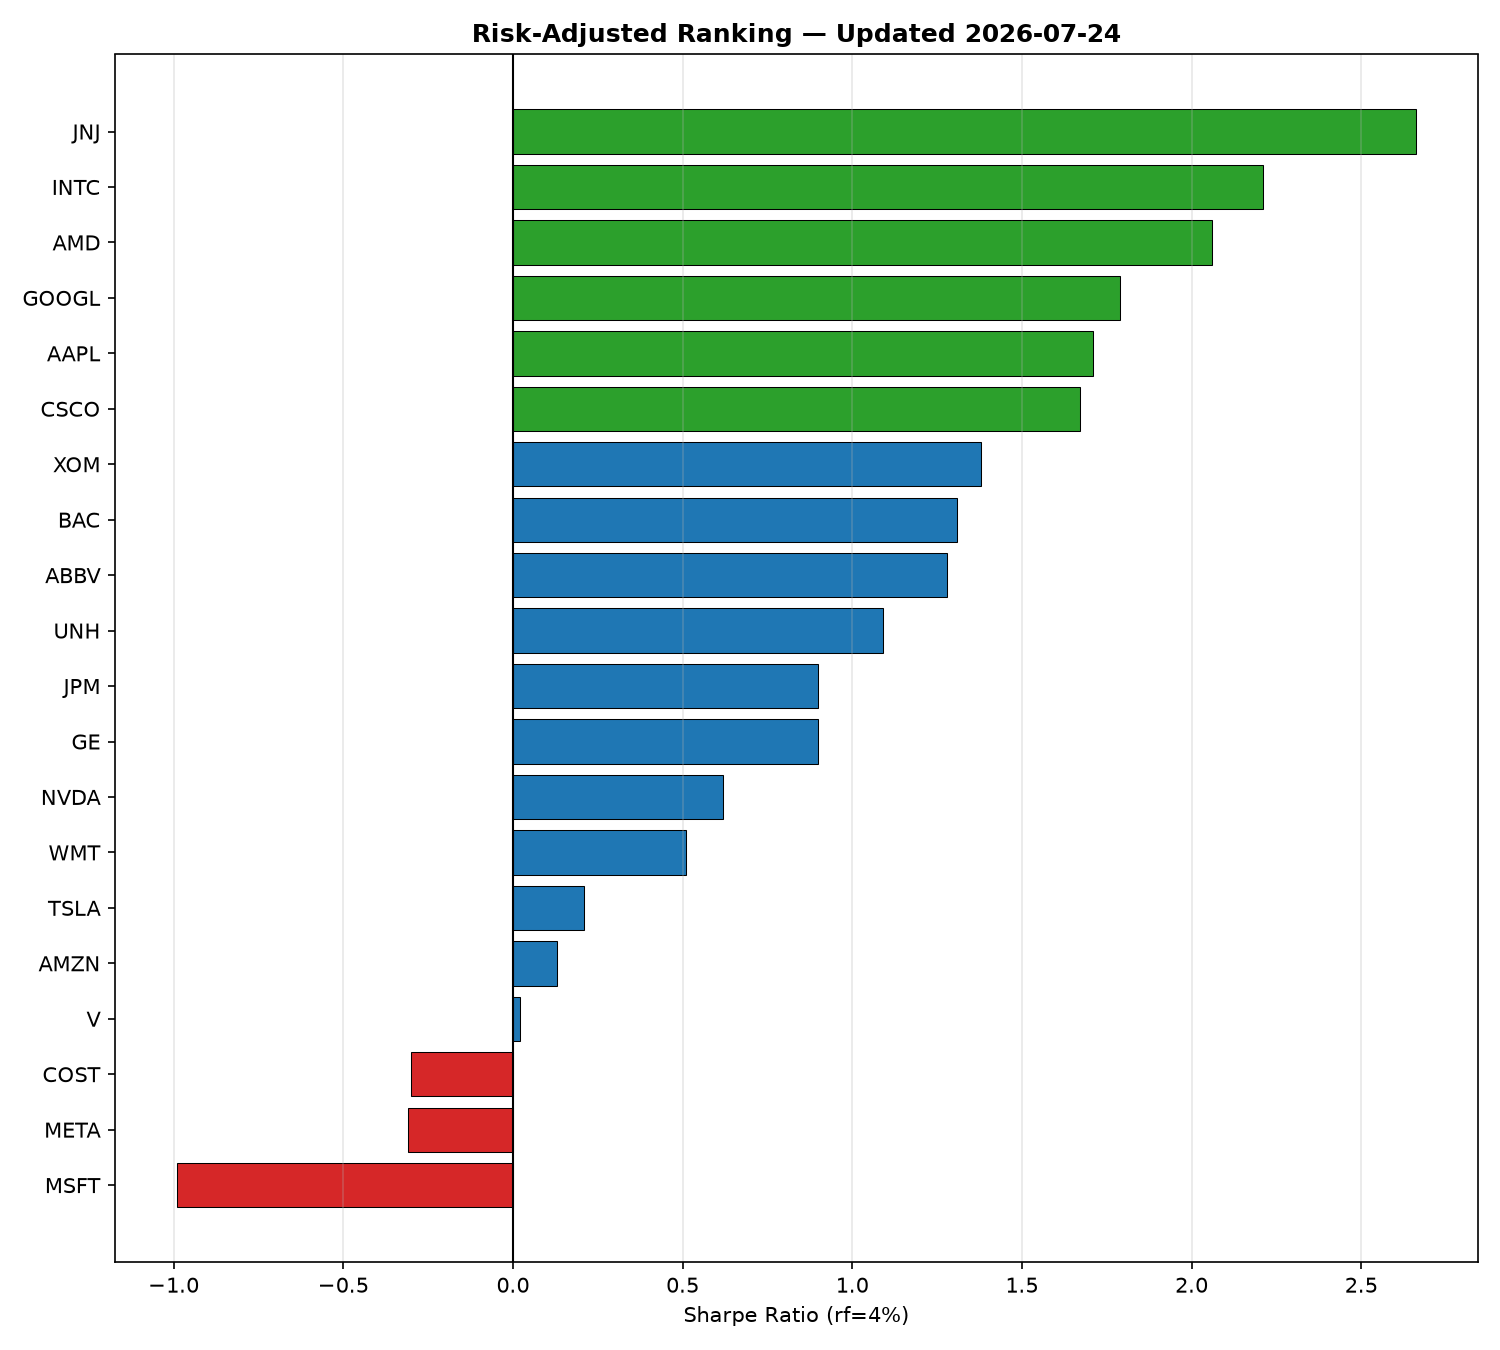
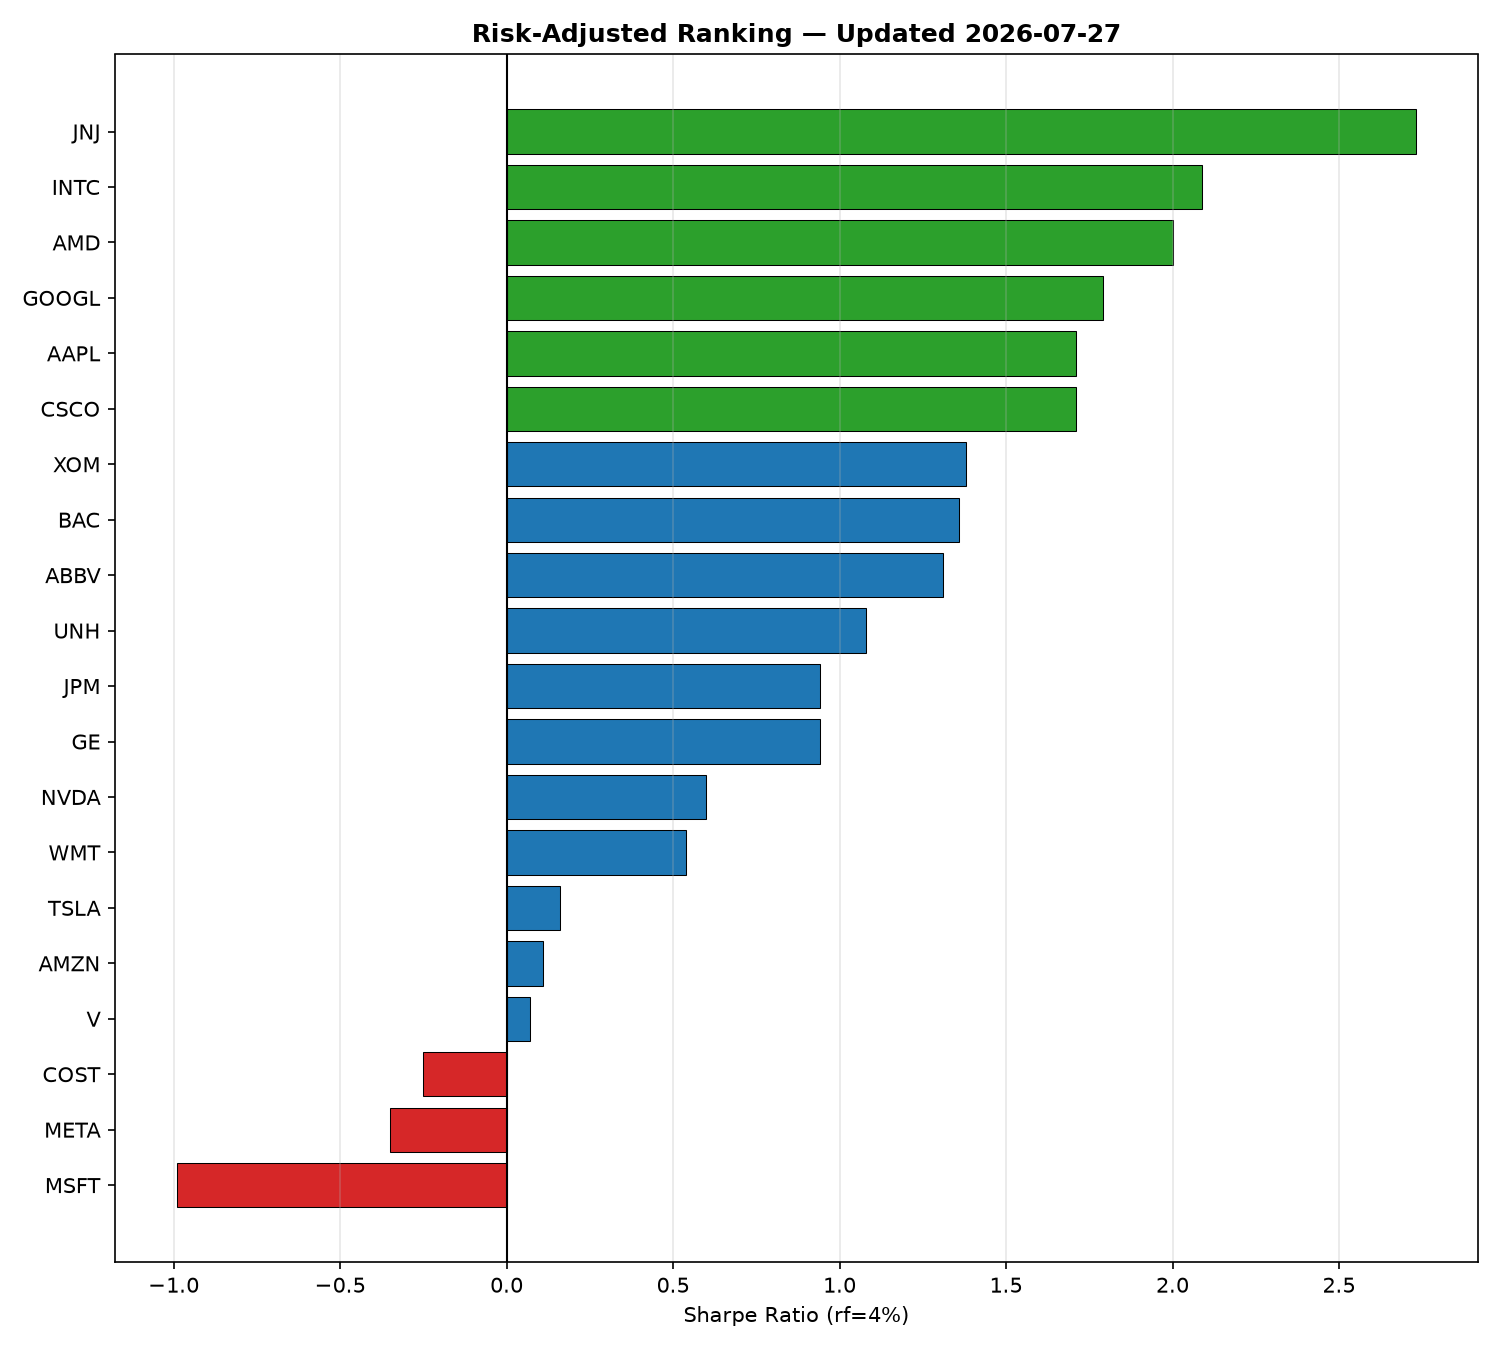
Automated daily update: prices, metrics, and charts

diff --git a/SNAPSHOT.md b/SNAPSHOT.md
@@ -2,8 +2,8 @@
 
 **Best mover:** GE (+2.29%)
 **Worst mover:** TSLA (-14.52%)
-**Top risk-adjusted performer (trailing window):** JNJ (Sharpe 2.66)
+**Top risk-adjusted performer (trailing window):** JNJ (Sharpe 2.73)
 
-**⚠ Newly anomalous today:** AMZN, GOOGL, TSLA — return moved more than 2 std. deviations from its own 20-day trailing mean.
+**⚠ Newly anomalous today:** GOOGL — return moved more than 2 std. deviations from its own 20-day trailing mean.
 
 _Auto-generated by `scripts/daily_snapshot.py` via GitHub Actions._
